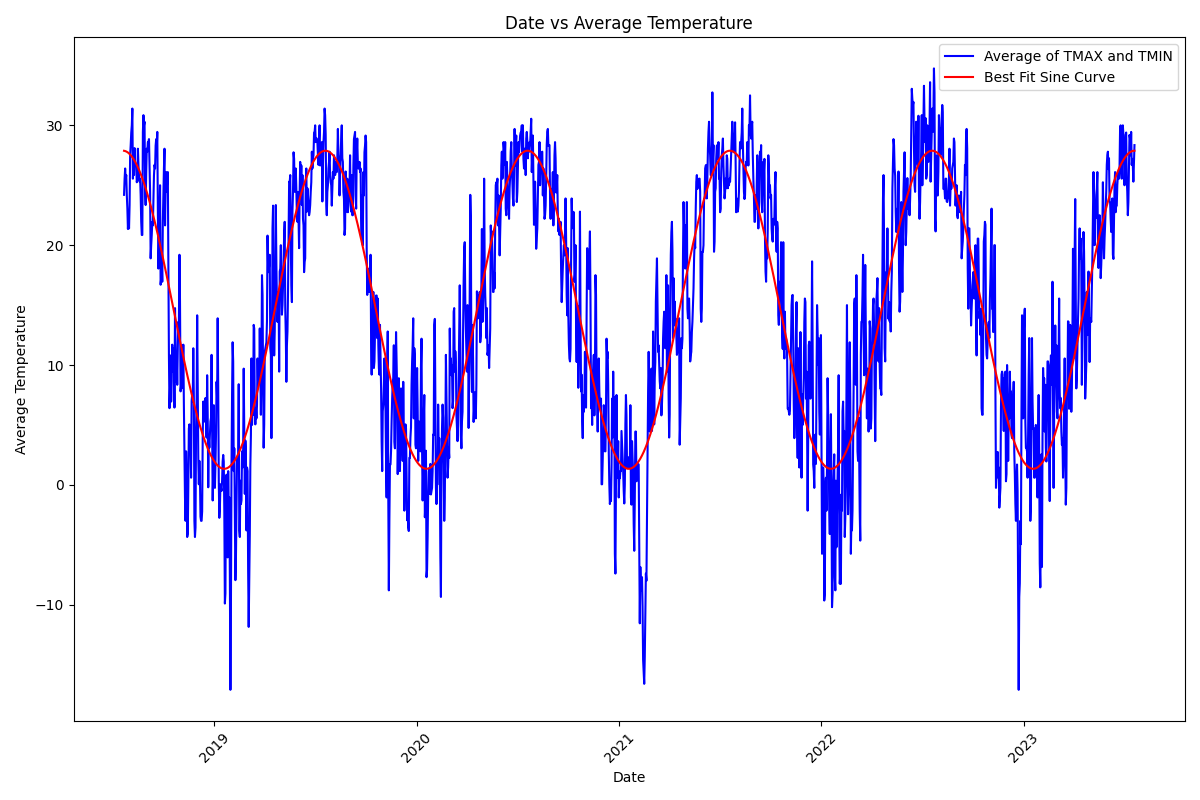
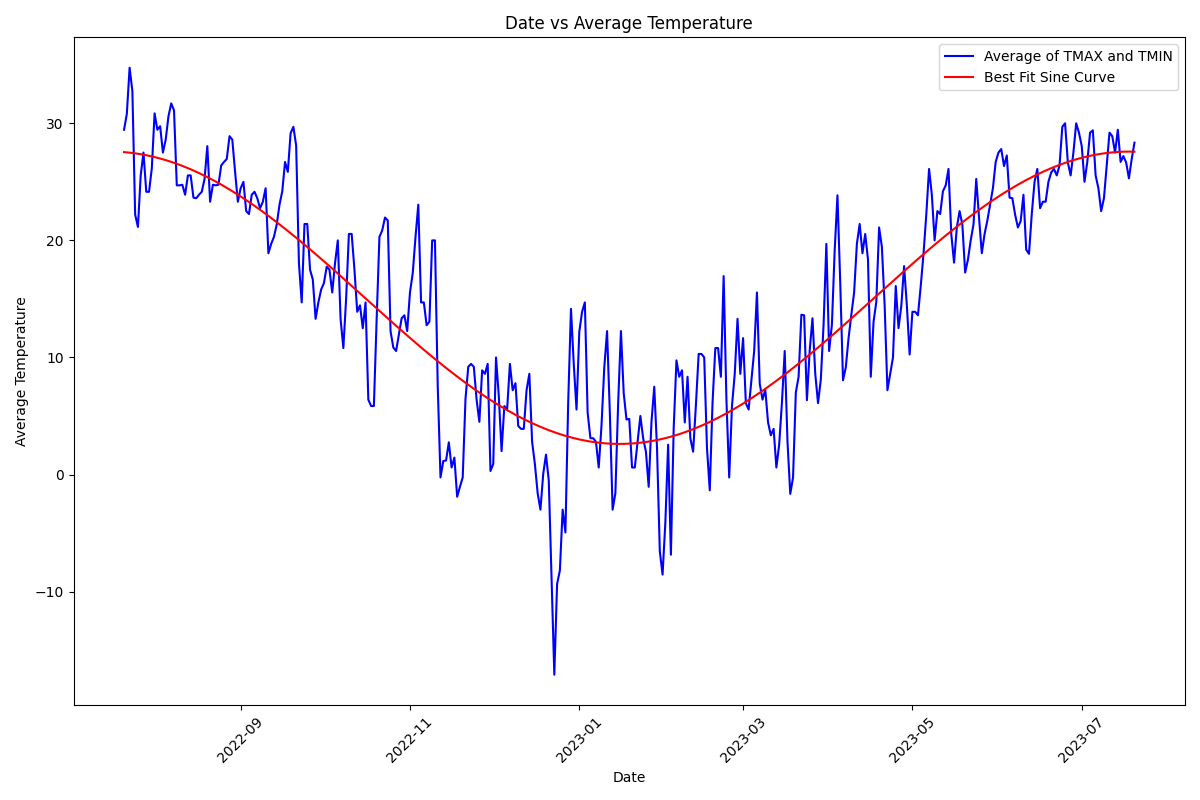
fix documentation

diff --git a/project/__main__.py b/project/__main__.py
@@ -13,7 +13,7 @@ with open("config.json", 'r') as file:
 project = Project(CONFIG)
 project.load()
 
-df = project.data["stlouis_1938-2023.csv"].tail(1825)
+df = project.data["stlouis_1938-2023"].tail(365)
 
 def calculate_average(row):
     valid_values = [value for value in row if pd.notna(value)]

diff --git a/project/loader.py b/project/loader.py
@@ -14,6 +14,6 @@ def load(path: str, low_memory: bool = False, format: bool = True) -> Dict[str, 
         if format:
             df["DATE"] = pd.to_datetime(df["DATE"])
 
-        data[file] = df
+        data[file.replace(".csv", "")] = df
 
     return data
